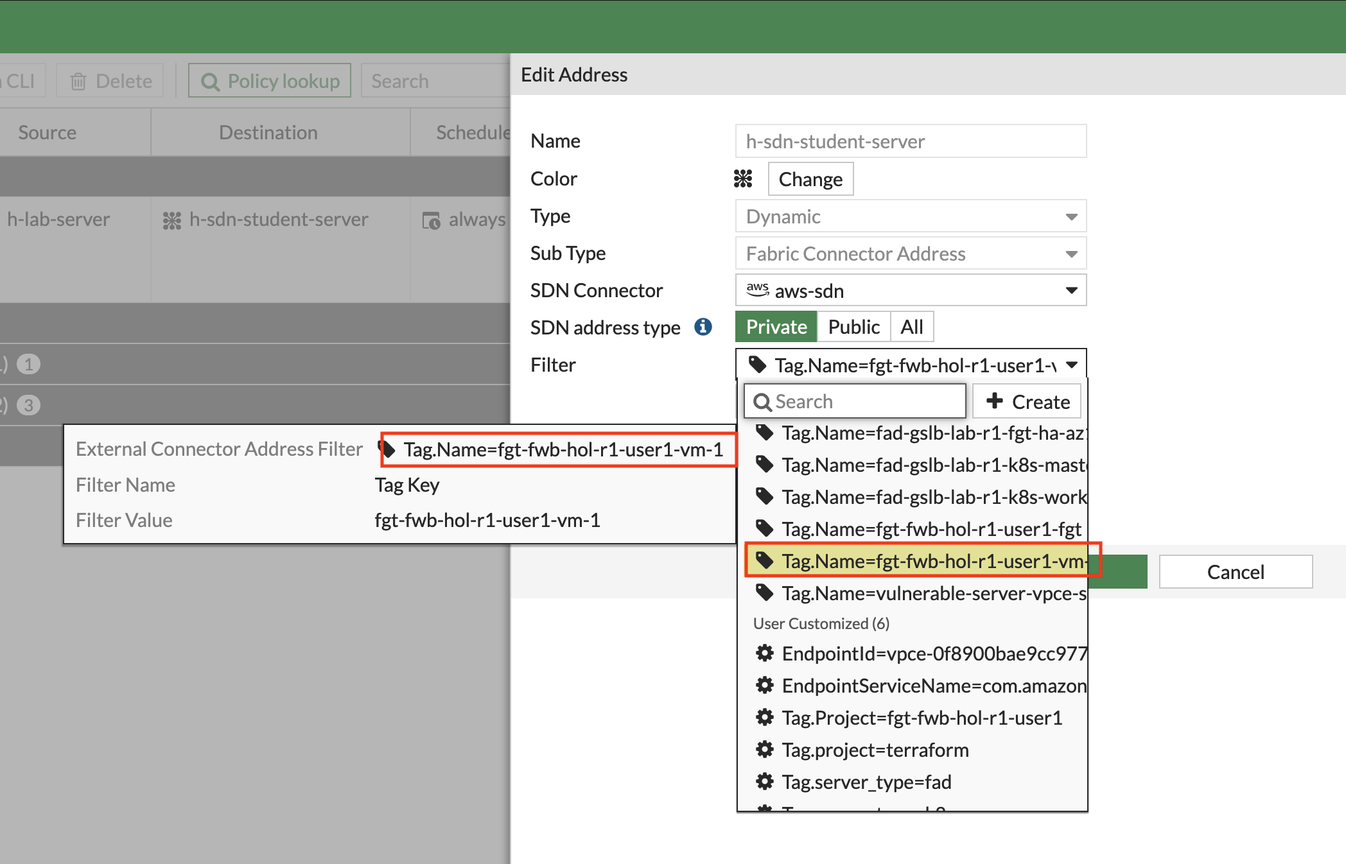
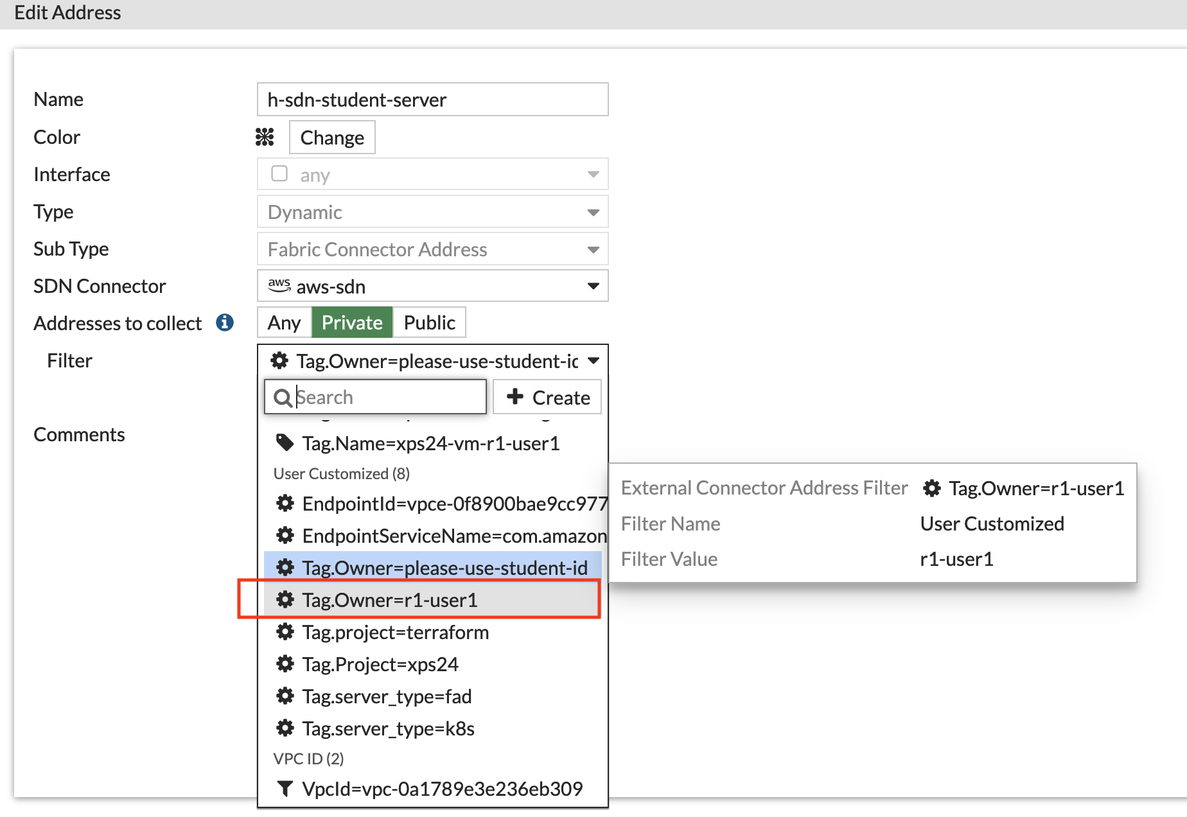
fix README files and update diagrams

diff --git a/FortiADC/README.md b/FortiADC/README.md
@@ -33,15 +33,13 @@ Se han desplegado una serie de recursos por participante, de cara a facilitar la
 En el portal de formación, introduciendo el email al que has recibido el token del laboratorio, podrás obtener los datos necesarios para completar los pasos siguientes. 
 
 ### 0.0. ¿Cómo acceder a vuestro FortiADC?
-- En los datos que aparecen en el portal del laboratorio, al introducir tu email, verás los URL de acceso a la GUI de tu FortiADC, habiendo completado el laboratorio 1, verás que es la misma IP pública con la que accedes al FortiGate pero con un puerto diferente. ("mgmt_url" = https://<ip_management>:8444) 
+- En los datos que aparecen en el portal del laboratorio, al introducir tu email, verás los URL de acceso a la GUI de tu FortiADC, habiendo completado el laboratorio 1, verás que es la misma IP pública con la que accedes al FortiGate pero con un puerto diferente. (`fad_url` = https://<ip_management>:8444) 
 - El usuario y la password también están detalladas en el portal del laboratorio. En este laboratorio no es necesario resetear la conrtraseña de FortiADC, dado que se ha usado una imagen custom con estos datos preestrablecidos.  
 
 > [!NOTE]
 >  Si realizarais el despliegue usando una imagen de Marketplace de AWS, si sería necesario realizar el reseteo de contraseña, usando el ID de la instancia.
 
-
 ## 1. Publicación de aplicaciones y configuración básica. 
-
 En este primer punto, veremos como dar de alta los servidores que contienen las aplciaciones a publicar, de una forma estática y dinámica mediante conectores. Además aprendreás a publicar las aplicaciones a través de FortiADC y seleccionar los metodos y perfiles de seguridad que queremos aplicar.
 
 ### 1.1. Configuracion de los backend o Real Servers Pools.
@@ -58,7 +56,6 @@ Con estos pasos, tendremos creados los servidores sobre los que balanceareamos l
 #### 1.1.1 Configuración de Real Server y Real Server Pool de manera manual.
 
 #### Paso 1. Real Servers
-
 En el panel lateral, ve a ***Server Load Balance > Real Servers Pool > Real Server*** y haz clic en ***Create New*** para agregar un nuevo servidor.
 
 <p align="center"><img src="images/image1-1-1-1.png" width="70%" align="center"></p>
@@ -78,7 +75,6 @@ Configura los siguientes valores:
 Ahora crearemos el Real Server Pool que incluirá el *Real Server* que acabamos de crear. Añadiremos un Real Server Pool para cada una de las aplicaciones. 
 
 #### Paso 2. Real Server Pools
-
 En el panel lateral, ve a ***Server Load Balance > Real Servers Pool*** y haz clic en ***Create New*** para agregar un nuevo servidor.
 
 Configura los siguientes valores:
@@ -124,11 +120,9 @@ Finalmente, en la sección de *Real Server Pool*, deben aparecer los dos grupos 
 <p align="center"><img src="images/image1-1-1-5.png" width="70%" align="center"></p>
 
 #### 1.1.2 Configuración de Real Server mediante conector externo Kubernetes.
-
 Con esta opción, integramos el FortiADC con el servicio de Kubernetes que aloja todos los servicios gestionados por el grupo responsable de la aplicación, por medio de un External Connector del Security Fabric. De esta forma en el FortiADC sólo se configurará el *Real Server Pool* y el *Virtual Server*. Los *Real Servers* correspondientes al entorno Kubernetes, se descubriran mediante el conector y se configuraran de forma automática al pool de servidores como *Real Servers*, sin que tengamos que configurar estos. De esta forma, el administrador de FortiADC, no tiene preocuparse de la infraestructura de servidores que alojan el cluster de Kubernetes. 
 
 #### Paso 1. Creación del conector al cluster Kubernetes.
-
 En el panel lateral, ve a ***Security Fabric > External Connectors***, haz clic en ***Create New*** y seleccionar el conector de Kubernetes.
 
 <p align="center"><img src="images/image1-1-2-1.png" width="70%" align="center"></p>
@@ -161,7 +155,6 @@ Confirma que el conector aparece en verde tras crearlo:
 Con estos pasos ya estaría configurado el conector que lee la API de nuestro entorno Kubernetes. 
 
 #### Paso 2. Creación del Real Server Pool.
-
 El siguiente paso es crear un nuevo *Real Server Pool* que use este conector para crear de forma dinámica los *Real Severs* sobre los que se va a balancear el tráfico de la aplicación. Dirígete a ***Server Load Balance > Real Server Pool > Real Server Pool*** y haz clic en ***Create New*** para agregar un nuevo servidor.
 
 Configura los siguientes valores:
@@ -193,11 +186,9 @@ Configura los siguientes valores:
 Vuelve a comprobar que los *Real Severs* correspondientes a este servicio se han creado correctamente y en el puerto correcto, en este caso el `31001`.
 
 #### 1.1.3 Configuración de Real Server mediante conector externo AWS.
-
 Con esta opción, integraremos el FortiADC con el servicio de Amazon Web Services (AWS) que aloja  los servicios gestionados por el grupo responsable de la aplicación por medio de un External Connector del Security Fabric. De esta forma en el FortiADC sólo se configurará el *Real Server Pool* y el *Virtual Server*. Los *Real Servers* correspondientes al entorno Cloud de AWS, se descubriran mediante el conector y se configuraran de forma automática al pool de servidores como *Real Servers*, sin que tengamos que configurar estos. De esta forma, el administrador de FortiADC, no tiene preocuparse de la infraestructura de servidores que alojan el backend de la aplicación. 
 
 #### Paso 1. Creación del conector cloud AWS.
-
 En el panel lateral, ve a ***Security Fabric > External Connectors***, haz clic en ***Create New*** y seleccionar el conector de AWS.
 
 <p align="center"><img src="images/image1-1-3-1.png" width="70%" align="center"></p>
@@ -217,7 +208,6 @@ Dado que a tu instancia de FortiADC en AWS, le hemos asociado un [IAM Intance pr
 <p align="center"><img src="images/image1-1-3-3.png" width="70%" align="center"></p>
 
 #### Paso 2. Creación del Real Server Pool.
-
 El siguiente paso es crear un nuevo *Real Server Pool* que use este conector para crear de forma dinámica los *Real Severs* sobre los que se va a balancear el tráfico de la aplicación. Dirígete a ***Server Load Balance > Real Server Pool > Real Server Pool*** y haz clic en ***Create New*** para agregar un nuevo servidor.
 
 Configura los siguientes valores:
@@ -255,13 +245,11 @@ Configura los siguientes valores:
 <p align="center"><img src="images/image1-1-3-6.png" width="70%" align="center"></p>
 
 ### 1.2 Configuracion del Virtual Sever (VS). 
-
 En el apartado anterior, hemos visto como dar de alta los grupos de servidores sobre los que FortiADC enviará el tráfico de aplicación en función de diferentes parámetros, para este laboratorio simplemente por disponibildiad. En un escenario real o de producción, se podrán escoger los criterios de balanceo que se consideren oportunos. [Metodos de balanceo en FortiADC](https://docs.fortinet.com/index.php/document/fortiadc/7.4.4/handbook/201314/configuring-load-balancing-lb-methods)
 
 Ahora vamos a configurar el *Virtual Sever* que escuchará el tráfico de la aplicación y enviará el tráfico al backend o *Real Server Pool* correspondiente. 
 
 #### 1.2.1 Configuración de un pool de IP para Source NAT
-
 Dado que estamos en un entorno donde el tráfico se envia por defecto al FortiGate y no al FortiADC, necesitamos hacer un Source NAT del tráfico procedente del FortiADC para que el servidor responda de forma correcta las peticiones de este. 
 
 Para configurar la IP que nuestro FortiADC usará para enviar las peticiones, nos iremos a la sección ***Virtual Sever > NAT Source Pool*** y clicaremos en ***Create New***
@@ -283,7 +271,6 @@ Configura los siguientes valores:
 
 
 #### 1.2.2 Configuración de un Virtual Server (VS)
-
 Una vez configurado el pool de servidores que comparten un mismo servicio es necesario crear un *Virtual Server* como punto de entrada público al servicio. El servidor virtual recibirá el tráfico y lo distribuirá entre los servidores backend.
 
 Nos iremos a la sección ***Server Load Balance > Virtual Server*** y en la pestaña ***Virtual Server*** cliclamos en ***Crate New*** con ***Advnaced Mode***
@@ -323,7 +310,6 @@ Comprueba que tienes acceso la aplicación DVWA a través del FortiADC, los dato
 >  Opcionalmente puedes crear también el VS para la aplicación API, repitiendo los pasos anteriores pero publicando en el puerto `31011`. 
 
 #### 1.2.3 Monitorización de un Virtual Server (VS)
-
 Si has completado los pasos 1.1.1 y 1.1.2 correctamente, podrás chequear el estado de salud del nuevo VS que acabas de crear. 
 
 Nos iremos a la sección ***FortiView > Logical Topology*** y en el tab ***Server Load Balancer*** veremos la topologia con el detalle del puerto de escucha del servicio, el backend sobre el que se balancea el tráfico y el estado de salud de los servidores de backend.  
@@ -347,13 +333,11 @@ Selecciona la opción SLB HTTP del desplegable, haz clic en el icono de la últi
 ## 2. Configuraciones avanzadas y nuevas funcionalidades de FortiADC.
 
 ### 2.1 Adative Learning (AL)
-
 El Adaptive Learning es una funcionalidad avanzada que permite al FortiADC aprender y adaptarse automáticamente a los patrones de tráfico y comportamiento de las aplicaciones web que gestiona. Esta característica utiliza análisis basados en inteligencia artificial para identificar de manera continua qué es "normal" para una aplicación en particular y ajusta las políticas de seguridad en consecuencia. Esto permite que FortiADC proporcione protección optimizada sin una intervención manual constante.
 
 En este laboratorio aprenderemos a configurar y gestionar políticas de AL sobre los VS anteriormente creados.
 
 #### 2.1.1 Configuración de política de AL.
-
 Para configurar una nueva política de AL, seleccióna en el panel lateral izquierdo ***Web Application Firewall > Adaptive Learning*** y haz clic en ***Create New*** para agregar una nueva política.
 	
 Configura los siguientes valores:
@@ -377,30 +361,27 @@ Al guardar nos dejará configurar el apartdo de *URL List*, donde crearemos una 
 No olvides guardar.
 
 #### 2.1.2 Configuración del perfil de WAF. 
-
-Las politicas de *Adaptative Learning (AD)* se asocian a perfiles de WAF que aplicaremos a las aplicaciones publicadas. Por lo que tendremos que crear un nuevo perfil de WAF que tenga asociada la política de AD que hemos creado en el paso anterior 1.3.1
+Las politicas de *Adaptative Learning (AD)* se asocian a perfiles de WAF que aplicaremos a las aplicaciones publicadas. Por lo que tendremos que crear un nuevo perfil de WAF que tenga asociada la política de AD que hemos creado en el paso anterior [2.1.1](#211-configuración-de-política-de-al) 
 
 Para crear un nuevo profile de WAF, ve al panel lateral izquierdo ***Web Application Firewall > WAF Profile*** y dentro de la pestaña de ***WAF Profile*** haz clic en ***Create New***
 
 Configurar los siguientes valores:
-* Name: WAF_PROFILE
+* Name: `WAF_PROFILE`
 * Adaptive Learning: AL (aquí aparecerá la política creada en el paso 1.3.1)
 
 Tras salvar y crear el nuevo profile, ya lo tendremos disponible para aplicar al Virtual Server. 
 
 #### 2.1.3 Asignación del perfil de WAF a Virtual Server.
-
-A continuación, asignaremos el perfil WAF a un Virtual Server. En el panel lateral izquierdo, ve a ***Server Load Balance > Virtual Server*** y haz doble clic sobre `VS_DVWA` para editar el VS que hemos creado en el punto 1.2.2.
+A continuación, asignaremos el perfil WAF a un Virtual Server. En el panel lateral izquierdo, ve a ***Server Load Balance > Virtual Server*** y haz doble clic sobre `VS_DVWA` para editar el VS que hemos creado en el punto [1.2.2](#122-configuración-de-un-virtual-server-vs)
 
 Configurar los siguientes valores dentro de la pestaña ***Security***
-* WAF Profile: `WAF_PROFILE` (este es el profile de WAF que hemos generado en el punto 1.3.2)
+* WAF Profile: `WAF_PROFILE` (este es el profile de WAF que hemos generado en el punto [2.1.2](#212-configuración-del-perfil-de-waf))
 
 No olvides guardar.
 
 #### 2.1.4 Test sobre la aplicaicón y comprobación de resultados.
 
 #### Paso 1. Generación de tráfico.
-
 En el apartado de Monitorización se ejecutó el script trafico.sh, si se paró es necesario volver a ejecutarlo y en ambos casos tendremos que esperar mínimo 5 minutos generando tráfico antes de continuar.
 
 #### Paso 2. Comprobación de resultados.
@@ -409,19 +390,16 @@ En el apartado de Monitorización se ejecutó el script trafico.sh, si se paró 
 Esta funcionalidad está relacionada con la visibilidad y el compliance de nuestros servicios balanceados por el FortiADC y nos proporcionará el grado de cumplimiento que tienen nuestros perfiles WAF frente a las amenazas de OWASP Top 10 y , en caso de no estar lo suficientemente protegido, que políticas aplicar y que cambios en el perfil son necesarios para llegar a alcanzar el nivel de cumplimiento frente a los diferentes ataques de OWASP.
 
 #### 2.2.1 Habilitar funcionalidad en FortiADC.
-
 OWASP Top 10 Compliance está disponible desde la versión 7.6 y antes de poder usarla es necesario habilitarla. Para ello, en el panel lateral izquierdo ir a ***System > Settings*** y en la pestaña Basic habilitar OWASP Top 10 Compliance. A partir de ahora, se podrá acceder desde el panel lateral a ***FortiView > OWASP Top 10 Compliance***. 
 
 Como se puede observar, por cada *Virtual Server* se establece un grado de cumplimiento de OWASP Top 10 representado en la columna *Compliance Rate*, el valor número reflejado indica en cuantos tipos de amenazas estamos protegidos al 100%. Si se hace doble clic sobre el Virtual Server se obtendrá información detallada del tanto por cien cubierto para cada una de las diferentes amenazas de OWASP Top 10 así como aquellas configuraciones que falta para incrementar la protección.
 
 #### 2.2.2 Configuración de perfiles de Cookie Security y Data Loss Prevention.
-
 A continuación, se detalla la configuración a aplicar sobre el perfil WAF creado en los pasos anteriores para mejorar la protección sobre A02:2021-Cryptographic Failures y como se incrementa el grado de cumplimiento de la aplicación.
 
 Como se puede ver el grado de cumplimiento para esta amenaza es del 60%, y se indica que falta por configurar ***Cookie Security y Data Loss Prevention***, vamos a configurar estos valores para posteriormente ver como incrementamos el perfil de seguridad.
 
 #### Paso 1. Cookie Security.
-
 En el panel lateral ir a ***Web Application Firewall > Sensitive Data Protection*** y en la pestaña de Cookie Security hacer clic en ***Create New*** 
 
 Configurar los siguientes parámetros:
@@ -436,11 +414,10 @@ Configurar los siguientes parámetros:
 Hacer clic en ***Save***
 
 #### Paso 2. Data Loss Prevention.
-
 Ahora en el panel lateral izquierdo ir a ***Web Application Firewall > Data Loss Prevention*** y en la pestaña de ***DLP Policy*** hacer clic en ***Create New***
 
 Configurar los siguientes datos:
-* Name: DLP_<Número de Alumno>
+* Name: `DLP`
 * Status: Enabled
 * Action: Alert
 
@@ -457,14 +434,13 @@ Configurar los siguiente parámetros:
 Hacer clic en ***Save*** hasta salir completamente de los menús de configuración. 
 
 #### 2.2.3 Asignación de nuevos elementos al WAF Profile
-
 El siguiente paso es asignar los nuevos elementos de protección a WAF profile. 
 
 En el panel lateral ir a ***Web Application Firewall > WAF Profile*** hacer doble clic sobre `WAF_PROFILE`.
 
 Configurar los siguiente parámetros:
-* Cookie Security: `CS` (este es el perfil que hemos creado en el punto 2.2.2 paso 1) 
-* Data Loss Prevention: `DLP` (este es el perfil que hemos creado en el punto 2.2.2 paso 2) 
+* Cookie Security: `CS` (este es el perfil que hemos creado en el punto [2.2.2 paso 1](#paso-1-cookie-security)) 
+* Data Loss Prevention: `DLP` (este es el perfil que hemos creado en el punto [2.2.2 paso 2](#paso-2-data-loss-prevention)) 
 
 Con esta configuración mejoraremos el compliance para *A02:2021-Cryptographic Failures* que debe de estar al 100% y se dará un valor de 4 sobre 10 para el Virtual Server configurado.
 
@@ -497,15 +473,15 @@ Configurar los siguientes valores:
 * Log status: Enable
 * Period Block: 100
 
-Hacer clic en Save
+Hacer clic en ***Save***
 
 ### 2.3.3 Asignación de Action
 Vamos a asignar la acción configurada a una amenaza, en este caso al tipo de ataque SQL/XSS Injection. En el panel lateral, ve a ***Web Application Firewall > Common Attacks Detection***, seleccionar la pestaña de SQL/XSS Injection Detection y hacer clic en ***Create New***
 
 Configurar los siguientes valores:
 * Name: `XS24_SQL_Policy`
-* Habilitar la opción SQL Injection Detection
-* Dentro del menú que aparecerá de SQL Injection Detection habilitar las opciones de URI Detection, Referer Detection, Cookie Detection, Body Detection.
+* Habilitar la opción ***SQL Injection Detection***
+* Dentro del menú que aparecerá de *SQL Injection Detection* habilitar las opciones de *URI Detection, Referer Detection, Cookie Detection, Body Detection*.
 * Action: `fgt-bannedIP-100s`
 
 Resto de valores dejarlos por defecto y hacer clic en ***Save***
@@ -517,7 +493,7 @@ En el panel lateral ir a ***Web Application Firewall > WAF Profile*** hacer dobl
 Configurar los siguientes valores:
 * SQL/XSS Injection Detection: `XS24_SQL_Policy`
 
-Hacer clic en Save
+Hacer clic en ***Save***
 
 ### 2.3.5 Creación del Automatismo
 Vamos a crear ahora la automatización para que la ip maliciosa detectada en el WAF sea bloqueda en el FortiGate. Para ello realizaremos los siguientes pasos:
@@ -526,11 +502,14 @@ En el panel lateral ir a ***Security Fabric > Automation*** hacer clic en la pes
 
 Configurar los siguientes valores:
 * Name: FGT_IPBAN
-* FortiGate Token: (usa el token que aparece en el portal del laboratorio o el que has creado en el punto 2.3.1)
+* FortiGate Token: (usa el token que aparece en el portal del laboratorio o el que has creado en el punto [2.3.1](#231-creación-de-usuario-api-en-fortigate))
 * FortiGate URL: `fgt_api_url` (este dato aparece en el portal del laboratorio en la sección de **Acceso a tu FortiGate**)
 
 > [!NOTE]
 > Dado que el FortiADC y el FortiGate tienen conectividad privada, la URL de la API del FortiGate corresponde a la IP privada del puerto 1, donde hemos habilitado el acceso HTTPS. 
+
+### 2.3.6 Comprobación de baneo de IP
+Lanza un ataque de inyección de SQL sobre la URL de tu aplicación y comprueba a nivel de FortiGate como tu IP publica se establece como "IP Banned".
 
 ## Laboratorio completado
 Una vez concluido este laboratorio es hora de Pasar al laboratorio 3: [FortiWeb](https://github.com/xpertsummit/xpertsummit24/tree/main/FortiWeb)

diff --git a/FortiGate/README.md b/FortiGate/README.md
@@ -1,4 +1,4 @@
-## [FortiGate SDWAN](./)
+## [FortiGate Cloud Networking](./)
 @NetDevOps, @SDWAN, @AWS Transit Gateway, @disponibilidad global
 
 En este laboratorio llevaremos a cabo las siguientes tareas:
@@ -6,9 +6,9 @@ En este laboratorio llevaremos a cabo las siguientes tareas:
 - Conocer como integrar la tecnología lider SDWAN de Fortinet en un entorno Cloud.
 - Integración con elementos de routing de los Cloud Providers, en este caso AWS Transit Gateway (TGW)
 - Entender las diferentes tablas de rutas a configurar en el AWS TGW para diferenciar tráfico de pre y post inspección por los Fortigates.
-- AWS TGW attachment connect para habilitar routing dinámico BGP entre el cluster de Fortigates y AWS.
+- Uso de AWS TGW attachment connect para habilitar routing dinámico BGP entre el cluster de Fortigates y AWS.
 - Troubleshooting de IPSEC y routing a nivel FortiGate. 
-- Creación de objetos dinámicos basados en metadatos Cloud, como por ejemplo tags.
+- Creación de objetos dinámicos basados en metadatos Cloud, como por ejemplo tags, para usarlos en politicas de firewall. 
 
 ## Resumen puesta en marcha
 
@@ -33,8 +33,8 @@ Se han desplegado una serie de recursos por participante, de cara a facilitar la
 En el portal de formación, introduciendo el email al que has recibido el token del laboratorio, podrás obtener los datos necesarios para completar los pasos siguientes. 
 
 ### 1.0. ¿Cómo acceder al Fortigate?
-- En los datos que aparecen en el portal del laboratorio, al introducir tu email, verás los URL de acceso a la GUI de tu fortigate. ("mgmt_url" = https://<ip_management>:8443) 
-- Al acceder solicitará resetear la contraseña. La contraseña inicial es el ID de la instancia EC2 del fortigate, que puedes consultar desde la consola de AWS o en el output del terraform. 
+- En los datos que aparecen en el portal del laboratorio, al introducir tu email, verás los URL de acceso a la GUI de tu fortigate. (`fgt_mgmt_url`) 
+- Al acceder solicitará resetear la contraseña. La contraseña inicial es el ID de la instancia EC2 del fortigate, que puedes obtener también en el portal del laboratorio. (`fgt_pass`) 
 
 <p align="center"><img src="images/image1-0-1.png" width="70%" align="center"></p>
 
@@ -45,9 +45,14 @@ En el portal de formación, introduciendo el email al que has recibido el token 
 > [!NOTE]
 >  Tendrás que completar una serie de preguntas inicial del wizard de inicio, donde puedes dejar por defecto todas las opciones. 
 
-### 1.1. Comprobación de conectividad a HUB
+### 1.1. Comprobación de conectividad a los HUBs
 
-- Comprobación de la correcta conexión al HUB VPN:
+Para este laboratorio se ha desplegado una topologia compleja de conexión de *dual HUB*, donde se ha simulando uno de los HUBs en un datacenter on-premises, con una configuración de cluster FGCP activo-pasivo. El otro HUB estaría en un Public Cloud, en este caso AWS, formando un cluster FGSP activo-activo con integración via BGP con un AWS Transit Gateway para publicación de rutas al entorno Cloud. 
+
+> [!NOTE]
+> La conexión al HUB desplegado en AWS, que forma un cluster FGSP activo-activo, se ha balanceado usando GSLB contra las IP publicas de cada uno de los nodos. Esta es una opción válida cuando tenemos este tipo de despligue y queremos balancear las conexiones IPSEC contra cada nodo del cluster y que para el Spoke sea transparente. 
+
+- Comprobación de las conexiones a los HUBs VPN:
 
 **Via GUI**
 
@@ -114,9 +119,9 @@ execute ping 10.x.x.138
 execute telnet 10.x.x.138 31000
 diagnose sniffer packet any 'host 10.x.x.138' 4
 ```
-Nota: recuerda que la IP de tu servidor depende de tu rango CIDR asignado: 
-ej. 10.10.1.138 asignado al user 1 en la region west-1
-ej. 10.20.5.138 asignado al user 5 en la region west-2
+Recuerda que la IP de tu servidor depende de tu rango CIDR asignado, en todo caso, puedes encontrar la IP de tu servidor en el portal del laboratorio, en la sección **Servidor de laboratorio**
+ej. 10.10.1.138 asignado al user 1 en la region 1
+ej. 10.20.5.138 asignado al user 5 en la region 2
 
 
 ### 1.3 Comprobar que vuestro usuario ya aparece en la Leader Board del portal
@@ -132,16 +137,11 @@ Para actualizar el valor del objeto dinámico, puedes hacerlo directamente desde
 
 <p align="center"><img src="images/image1-3-1.png" width="70%" align="center"></p>
 
-Selecciona en el filtro del objeto dinámico el TAG correcto con contenga tu nombre de usuario, que será algo como esto: xps24-vm-`r1-user-1`
-
-Nota: recuerda que el nombre de usuario depende de la región asignada: 
-ej. r1-user-1 asignado al user 1 en la region west-1
-ej. r2-user-5 asignado al user 5 en la region west-2
+Selecciona en el filtro del objeto dinámico el TAG correcto con contenga tu nombre de usuario, que será algo como esto: `r1-user-1` y que puedes encontrar en el portal del laboratorio en la sección **Usuario de laboratorio** `aws_user_id`
 
 ```sh
-Tag.Owner=xps24-vm-r1-user-1
+Tag.Owner=r1-user-1
 ```
-
 <p align="center"><img src="images/image1-3-2.png" width="70%" align="center"></p>
 
 En el momento que actualices el objeto con el Tag de Owner de tu usuario, el conector ya resolverá aquellas instancias que tengan asignado dicho Tag. En este laboratorio verás también las IPs asignadas a la instancia de firewall fortigate. Puedes comprobar las IPs que resuelve el objeto dinámico, manteniendo el cursor sobre el objeto dinámcio, aparecerá un menún contextual donde puedes hacer click en `View Matched Address`
@@ -162,6 +162,9 @@ diagnose sniffer packet any 'host 10.x.x.138' 4
 ```
 
 ### 1.4 Publicación de rutas en AWS TGW
+
+> [!NOTE]
+> Para este laboratorio no hemos habilitado el acceso a la consola de AWS, si tienes curiosidad por ver la configuración a nivel de AWS, pregunta a los monitores del curso que te lo podrán mostrar en su consola. 
 
 Llegados a este punto, la conectividad entre el servidor del laboratorio y tu servidor de test se realiza de manera correcta. El servidor de laboratorio está desplegado en una VPC spoke atachada al TGW y aprende la red de vuestro servidor a través de los anuncios BGP que realizan los miembros del cluster de HUB de SDWAN. Esto se consigue con dos TGW attachment connect, uno a cada miembro del cluster, para poder establecer una sesión BGP contra el TGW. De esta forma, mediante routing dinámico el TGW aprende los CIDRs de los spokes SDWAN. 
 

diff --git a/FortiWeb/README.md b/FortiWeb/README.md
@@ -10,7 +10,6 @@ En este laboratorio llevaremos a cabo las siguientes tareas:
 - Ejercicios de RedTeam para probar la eficacia de la protección
 
 ## 1. Conexión al servicio de FortiWeb Cloud
-
 - Para acceder al servicio de FortiWeb Cloud se ha habilitado un acceso IAM donde cada usuario tendrá sus propias credenciales de acceso bajo una cuenta matriz donde se encuentra el servicio
 - El acceso a FortiWeb Cloud puede llevarse a cabo desde la siguiente URL: [FortiWeb Cloud](http://www.fortiweb-cloud.com/)
 - Seleccionamos la opción Login
@@ -27,7 +26,6 @@ En este primer login será necesario validar la cuenta de cada usuario para lo q
 <p align="center"><img src="images/image1-4.png" width="50%" align="center"></p>
 
 ## 2. Creación aplicación portal Web (DVWA)
-
 - Comprueba que tu aplicación es accesible desde Internet. Puedes encontrar la url a la misma en los datos del laboratorio: _Acceso a tus aplicaciones > dvwa_url_
 - La creación de una nueva aplicación en FortiWeb Cloud es bastante sencilla. En este laboratorio realizaremos el alta via GUI en el portal, pero se puede automatizar realizando peticiones a la API del servicio. [FortiWeb Cloud API reference](http://www.fortiweb-cloud.com/apidoc/api.html)
 - En el menú de la izquierda seleccionaremos `Global > Applications`
@@ -49,8 +47,9 @@ En este primer login será necesario validar la cuenta de cada usuario para lo q
     * **Port**: 31000 (Puerto TCP, ejemplo: dvwa_url  = http://15.188.151.180:***31000*** ))
     * **Test Server**: (comprobar conexión al servidor usando HTTP)
 
-> [!TIP]
-Puedes obtener la IP pública de tu aplicación DVWA en los datos de laboratorio, en la parte de _"Acceso a tus aplicaciones > dvwa_url"_
+> [!NOTE]
+> Puedes obtener la IP pública de tu aplicación DVWA en los datos de laboratorio, en la parte de _"Acceso a tus aplicaciones > dvwa_url"_
+> Los puertos de publicación `31000` y `31001` corresponde al acceso a la aplicación directamente a través de tu FortiGate sin pasar por el FortiADC.
 
 <p align="center"><img src="images/image2-3.png" width="70%" align="center"></p>
 
